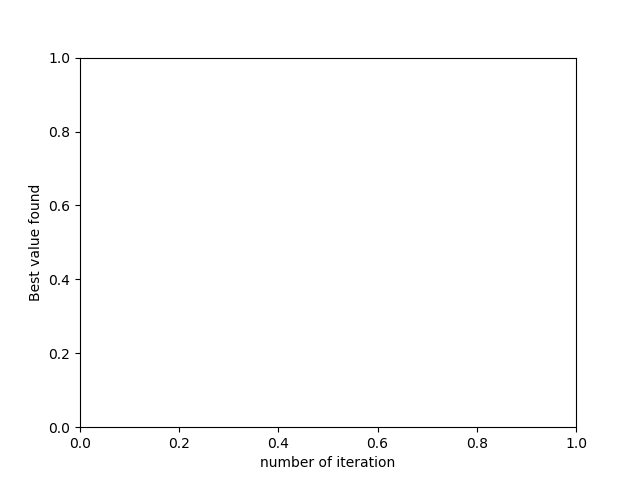
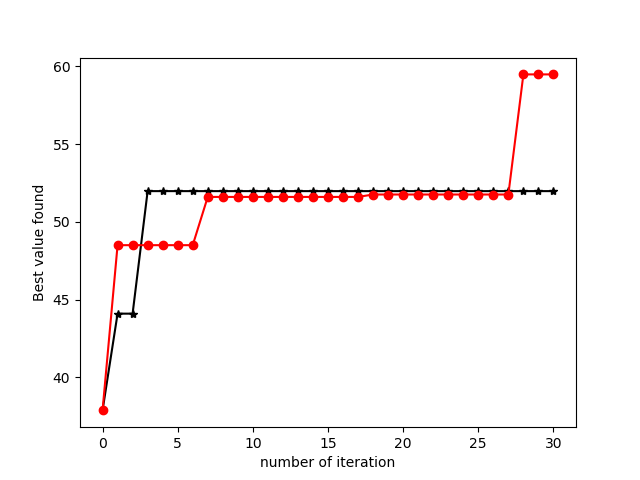
Save Recon

diff --git a/main_BO.py b/main_BO.py
@@ -112,34 +112,22 @@ if __name__ == '__main__':
     recon_loss(params_best_qKG, data_loader, sampling_ratio, K=20, save_name='Recons_qKG')
 
     if q == 1:
-
         fig, ax = plt.subplots()
-
         ax.plot(best_EI, 'b+-', label = 'EI')
         ax.plot(best_qEI,'k*-', label = 'qEI')
         ax.plot(best_qKG, 'ro-', label = 'qKG')
-
         plt.xlabel('number of iteration')
         plt.ylabel('Best value found')
-        plt.savefig('policy_comparison_best_results.png')
+        plt.savefig('./bo_results/policy_comparison_best_results.png')
         plt.close()
-
     else:
-
         fig, ax = plt.subplots()
-
         ax.plot(best_qEI,'k*-', label = 'qEI')
         ax.plot(best_qKG, 'ro-', label = 'qKG')
-
         plt.xlabel('number of iteration')
         plt.ylabel('Best value found')
-        plt.savefig('policy_comparison_best_results.png')
+        plt.savefig('./bo_results/policy_comparison_best_results.png')
         plt.close()
-
-    plt.xlabel('number of iteration')
-    plt.ylabel('Best value found')
-    plt.savefig('./bo_results/policy_comparison_best_results.png')
-    plt.close()
 
 
 
